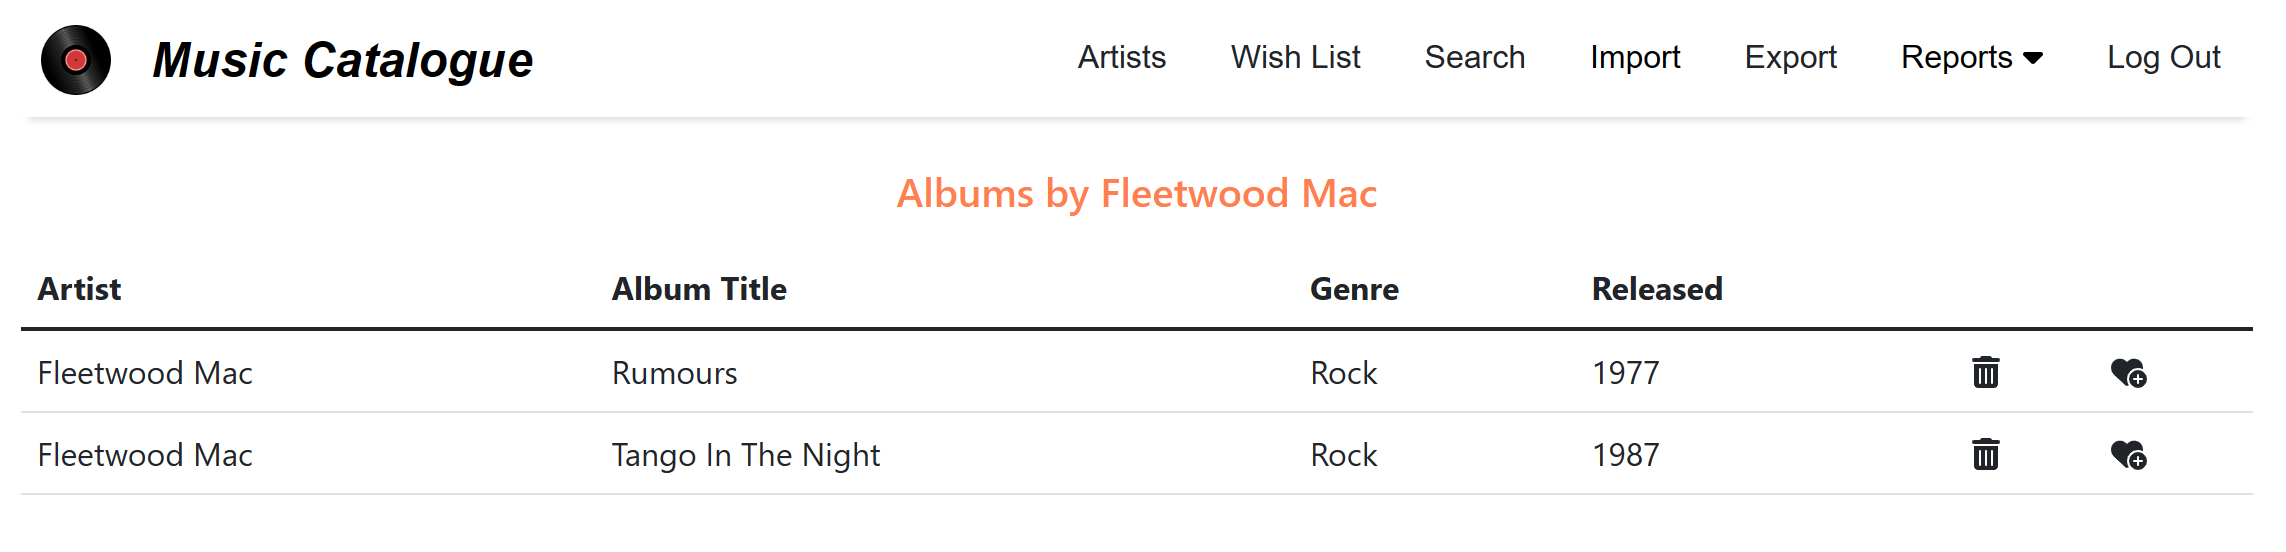
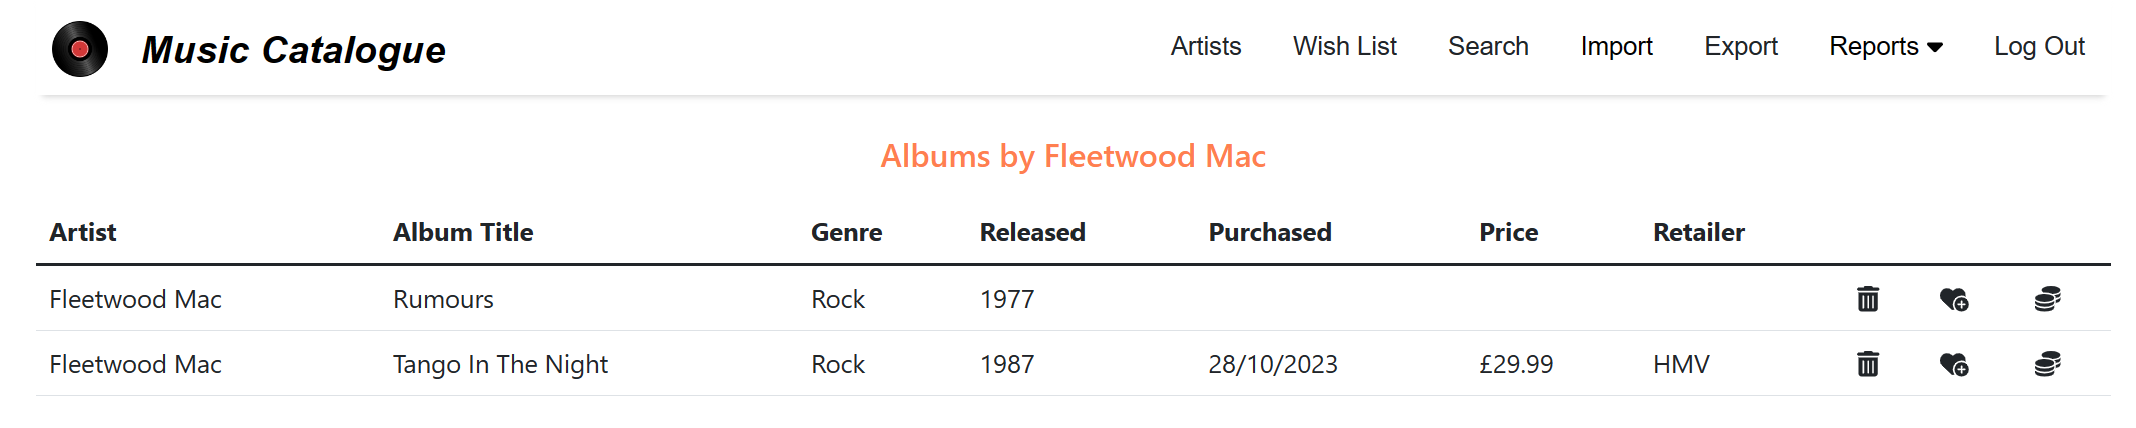
Update the README to include purchase details

diff --git a/README.md b/README.md
@@ -99,8 +99,8 @@
 - The following is an example, illustrating the format for the headers and for the rows containing data:
 
 ```
-Artist,Album,Genre,Released,Cover Url,Track Number,Track,Duration,Wish List
-Duke Ellington,Ellington Indigoes,Jazz,1958,,1,Solitude,04:43,False
+Artist,Album,Genre,Released,Cover Url,Track Number,Track,Duration,Wish List,Purchase Date,Price,Retailer
+George Harrison,All Things Must Pass,Rock & Roll,1970,https://www.theaudiodb.com/images/media/album/thumb/all-things-must-pass-4f09954aa6370.jpg,1,I'd Have You Anytime,02:56,False,12/11/2023,59.07,Amazon
 ```
 
 - Exports include all albums in both the main catalogue and the wish list
@@ -134,12 +134,16 @@ MusicCatalogue.LookupTool --lookup "John Coltrane" "Blue Train" catalogue
 
 ### Configuration
 
-- The UI uses a simple "config.json" file containing only one setting, the base URL for the Music Catalogue web service:
+- The UI uses a simple "config.json" file containing the base URL for the Music Catalogue web service and locale settings used by the UI:
 
 ```json
 {
   "api": {
     "baseUrl": "http://localhost:8098"
+  },
+  "region": {
+    "locale": "en-GB",
+    "currency": "GBP"
   }
 }
 ```
@@ -167,6 +171,10 @@ MusicCatalogue.LookupTool --lookup "John Coltrane" "Blue Train" catalogue
 - As the mouse pointer is moved up and down the table, the current row is highlighted
 - Clicking on the trash icon prompts for confirmation and, if confirmed, deletes the album shown in that row along with the associated tracks
 - Clicking on the "heart" icon moves the album from the main catalogue to the wish list then refreshes the album list
+- Clicking on the "money" icon opens a form allowing the purchase details to be set:
+
+<img src="diagrams/purchase-details.png" alt="Purchase Details" width="600">
+
 - Clicking anywhere else on a row opens the track list for the album shown in that row:
 
 <img src="diagrams/track-list.png" alt="Track List" width="600">
@@ -184,6 +192,7 @@ MusicCatalogue.LookupTool --lookup "John Coltrane" "Blue Train" catalogue
 - Clicking on a row drills into the album content, as per the "Artists" page
 - Clicking on the trash icon prompts for confirmation and, if confirmed, deletes the album shown in that row along with the associated tracks
 - Clicking on the vinyl record icon moves the album from the wish list to the main catalogue then refreshes the album list
+- Clicking on the money icon opens the purchase details page and allows the price and a potential retailer to be set, but not the purchase date
 
 ### Album Lookup
 
@@ -237,6 +246,7 @@ MusicCatalogue.LookupTool --lookup "John Coltrane" "Blue Train" catalogue
   - Retrieving artist details from the local database
   - Retrieving album and track details from the local database
   - Looking up albums via the external APIs (see below)
+  - Managing retailers and purchase details
 - The external lookup uses the "album lookup" algorithm described under "Album Lookup", below
 - Swagger documentation exposed at:
 
